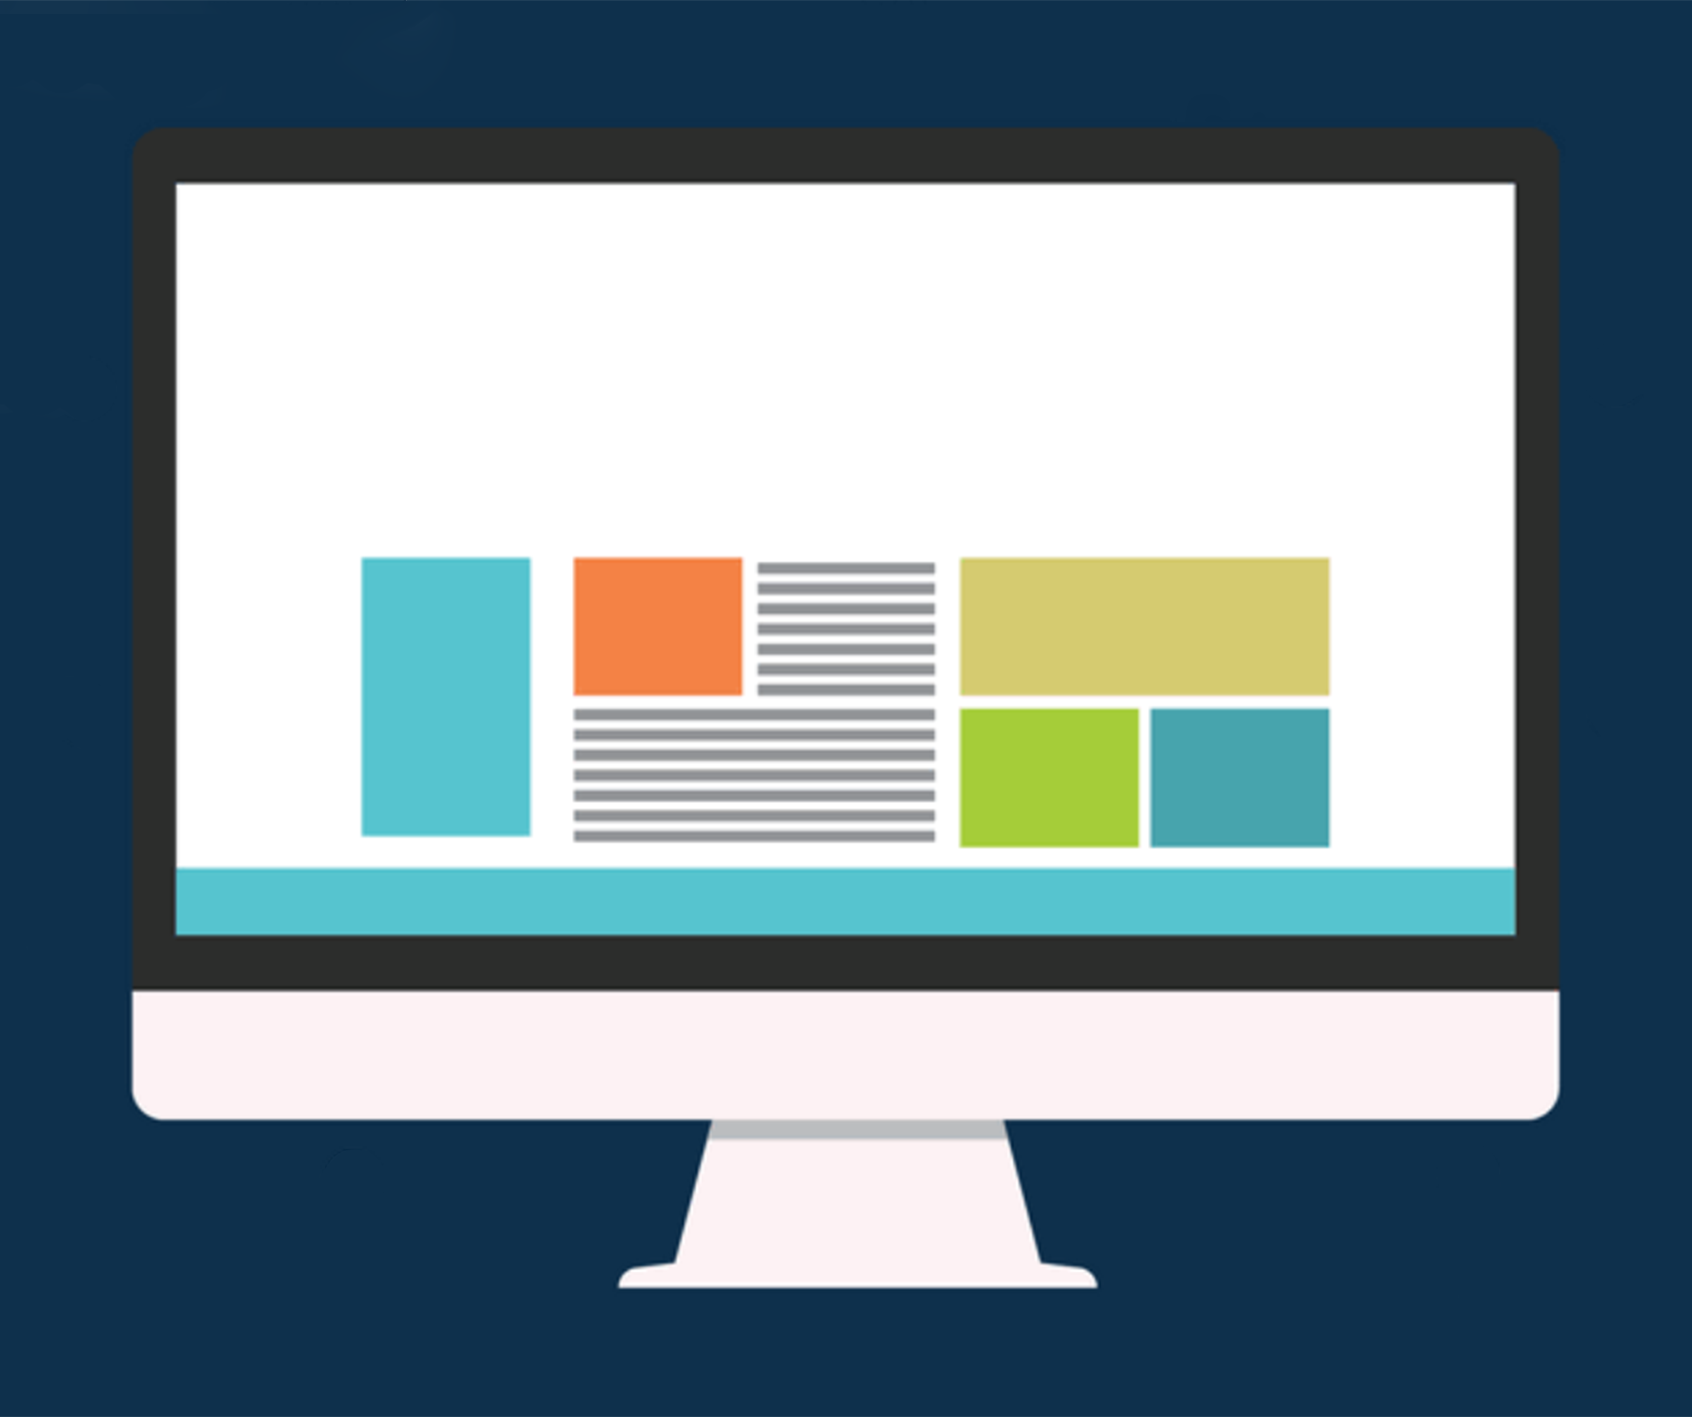
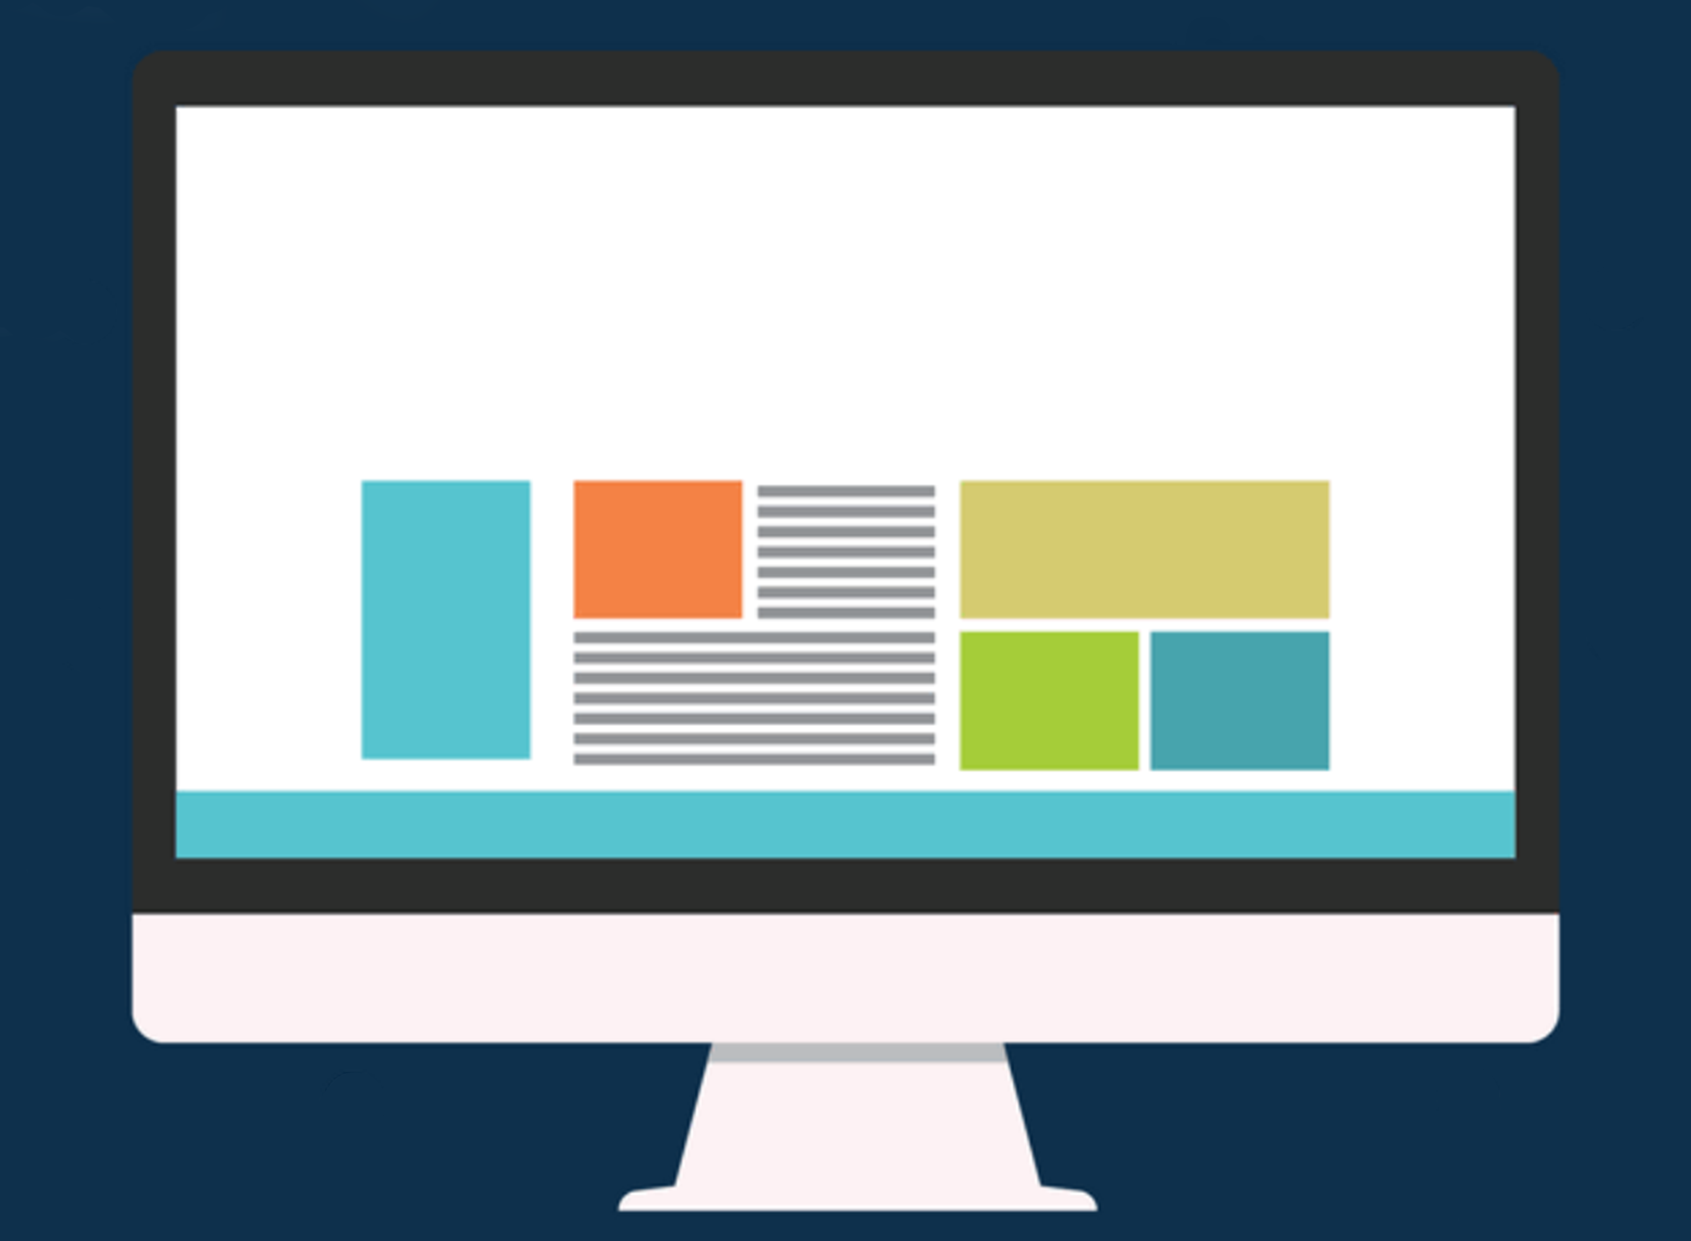
fixed middle css

Changed region(s): [[0.0615, 0.3674, 0.9225, 0.9799], [0.0615, 0.0306, 0.9225, 0.1531], [0.2153, 0.3674, 0.3075, 0.3981]]

diff --git a/css/styles.css b/css/styles.css
@@ -1,4 +1,4 @@
-@import url('https://fonts.googleapis.com/css?family=Noto+Sans+JP');
+@import url('https://fonts.googleapis.com/css?family=Roboto+Slab');
 @import url('https://fonts.googleapis.com/css?family=Roboto');
 
 /*******************************
@@ -6,7 +6,7 @@ Basic Styles
 *******************************/
 body {
 	margin: 0;
-	background-color: #152f44;
+	background-color: #0e304c;
 	font-family: 'Roboto', sans-serif;
 }
 header {
@@ -20,10 +20,8 @@ footer {
 	display: block;
 }
 h1 {
-	font-family: 'Noto Sans JP', serif;
+	font-family: 'Roboto Slab', serif;
 }
-
-
 /*******************************
 Layout
 *******************************/
@@ -39,21 +37,66 @@ Layout
 }
 header.static { top: 0; }
 footer.static { bottom: 0; }
-header .container, footer .container { 
+header .container, footer .container, .center.container { 
 	display: flex;
 	justify-content: space-between;
 	align-items: center;
 }
+/*******************************
+Primary (Top Left)
+******************************/
+.subtitle {
+	margin-bottom: 20px;
+}
+/*******************************
+Strong Fallow Area (Top Right)
+******************************/
+form.strong-fallow {
+	display: flex;
+}
+form.strong-fallow label {
+	display: block;
+	margin-bottom: 5px;
+}
+form.strong-fallow div {
+	padding-right: 30px;
+} 
+form.strong-fallow #login {
+	background-color: white;
+	border-radius: 5px;
+	border-color: #3b878f;
+	color: #3b878f;
+	transition-duration: 0.4s;
+}
+form.strong-fallow #login:hover {
+	background-color: #e8e8e8;
+}
+/*******************************
+Center
+******************************/
 .center {
 	color: white;
-	display: flex;
-    justify-content: center;
-    align-items: center;
-    min-height: 100vh;
+	display: flex; 
+	justify-content: center;
+	flex: 100%;
+	align-items: center;
+	min-height: 90vh;
+/*	background-image: url("../images/z-pattern.png");
+	background-repeat: no-repeat;
+	background-position: left;
+	background-size: auto 50%;*/
+}
+.center h2, .center h3 {
+	display: block;
+	float: right;
+}
+.center img {
+	max-width: 400px;
+	float: left;
 }
 
 /*******************************
-Weak Fallow Area
+Weak Fallow Area (Bottom Left)
 ******************************/
 ul.weak-fallow {
 	list-style-type: none;
@@ -61,7 +104,7 @@ ul.weak-fallow {
 } 
 ul.weak-fallow li {
 	padding: 0 30px 30px 30px;
-	max-width: 250px;
+	max-width: 225px;
 	text-align: center;
 }
 ul.weak-fallow div {
@@ -72,8 +115,9 @@ ul.weak-fallow div {
 ul.weak-fallow li:nth-of-type(1), ul.weak-fallow li:nth-of-type(2) {
 	border-right: 1px solid #c1c1c1;
 }
+
 /*******************************
-Terminal Area
+Terminal Area (Bottom Right)
 ******************************/
 .terminal {
 	height: 100%;
@@ -86,8 +130,9 @@ Terminal Area
 	border-radius: 5px;
 	color: white;
 	font-weight: 550;
-	box-shadow: 0px 0px 8px 3px rgba(0,0,0,0.45);
 	letter-spacing: 1px;
+	transition-duration: 0.4s
+	border: 1px solid black;
 }
 .terminal a:hover {
 	background: #3b878f;

diff --git a/index.php b/index.php
@@ -3,23 +3,33 @@
 	<body>
 		<header class="static">
 			<div class="container">
-				<h1>Pursuing Web Development</h1>
-				<form action = "/">
-					<label for="fname">username:</label>
-					<input type="text" id="fname" name="fname" value=""><br>
-					<label for="lname">password:</label>
-					<input type="text" id="lname" name="lname" value=""><br>
-					<input type="submit" value="Login">
+				<div>
+					<h1>Pursuing Web Development</h1>
+					<div class="subtitle"> Learn about aspiring web developers and see what it takes to become one </div>
+				</div>
+				<form action = "/" class="strong-fallow">
+					<div>
+						<label for="fname">Username:</label>
+						<input type="text" id="fname" name="fname" value="">
+					</div>
+					<div>
+						<label for="lname">Password:</label>
+						<input type="text" id="lname" name="lname" value="">
+					</div>
+					<input id="login" type="submit" value="Login">
 				</form> 
 			</div>
+
 		</header>
 
 		<section class="center">
-			<div class="center-container">
-				<h2>Your adventure awaits</h2>
-				<h3>Front end web development 2020</h3>
+			<div class="container">
+				<img src="images/z-pattern.png">
+				<h2>Your Adventure Awaits!</h2>
+				<h3>Front End Web Development 2020</h3>
 			</div>
 		</section>
+		
 
 		<footer class="static">
 			<div class="container">
